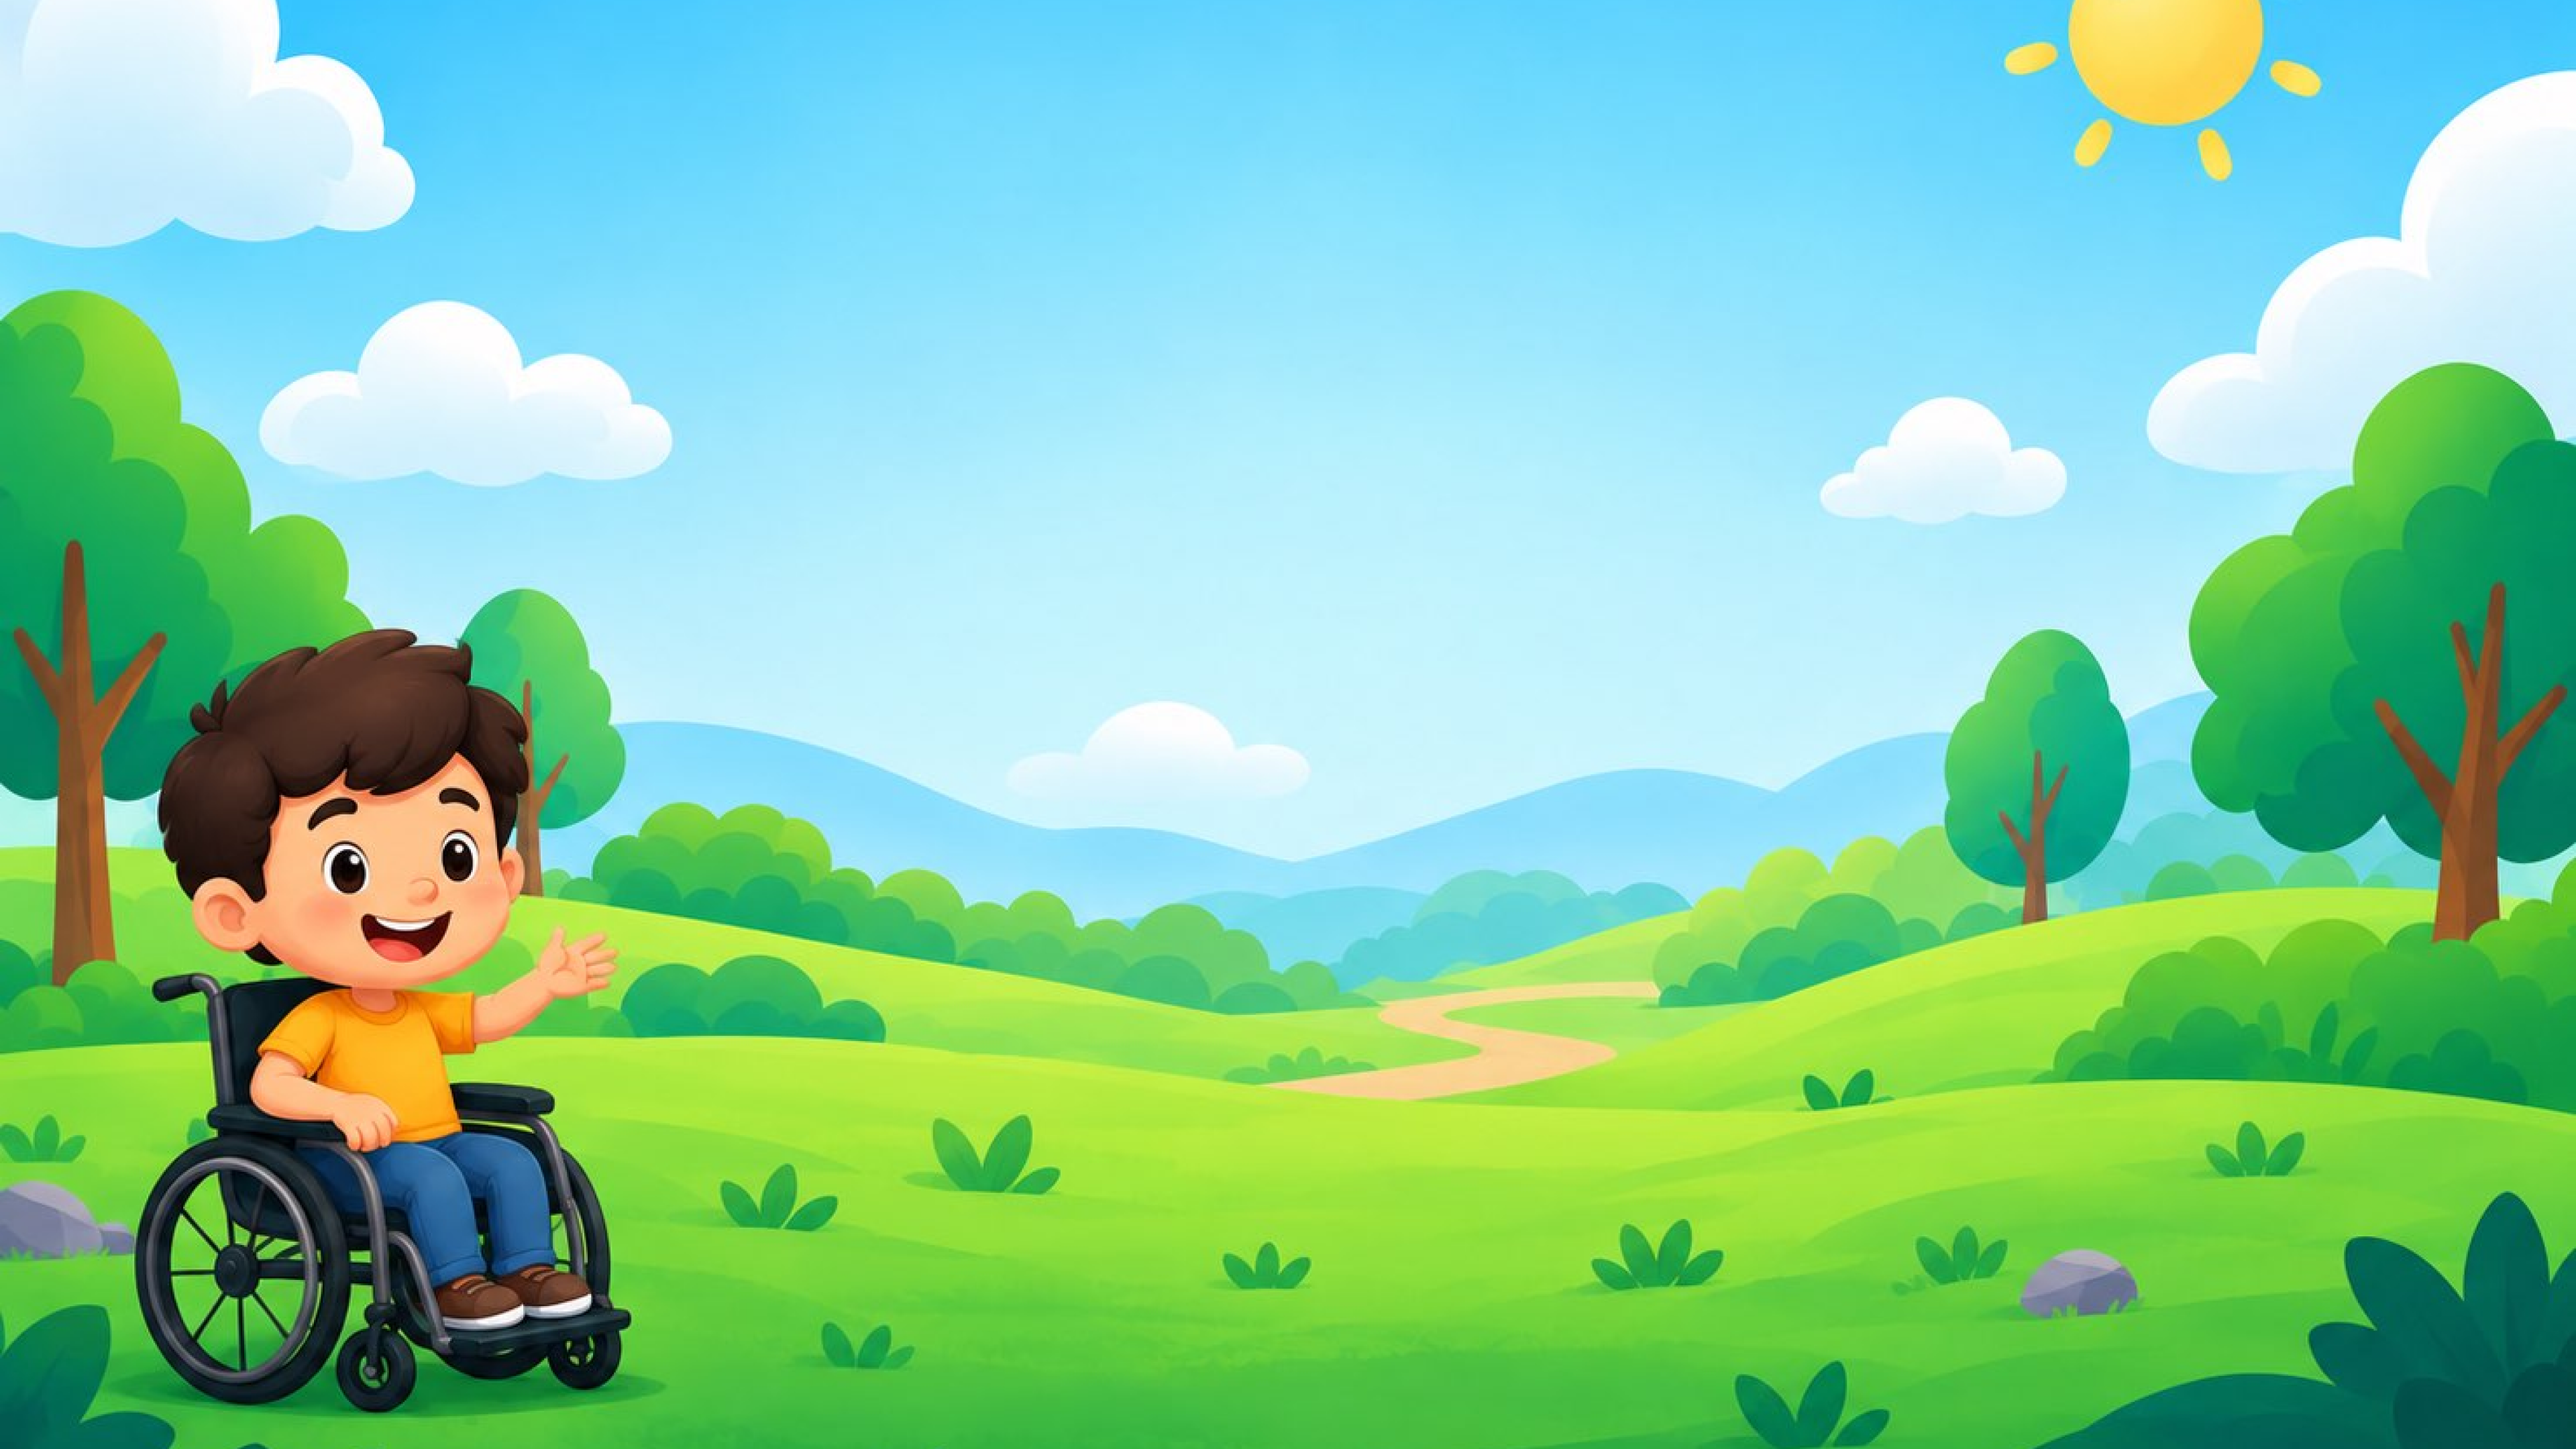
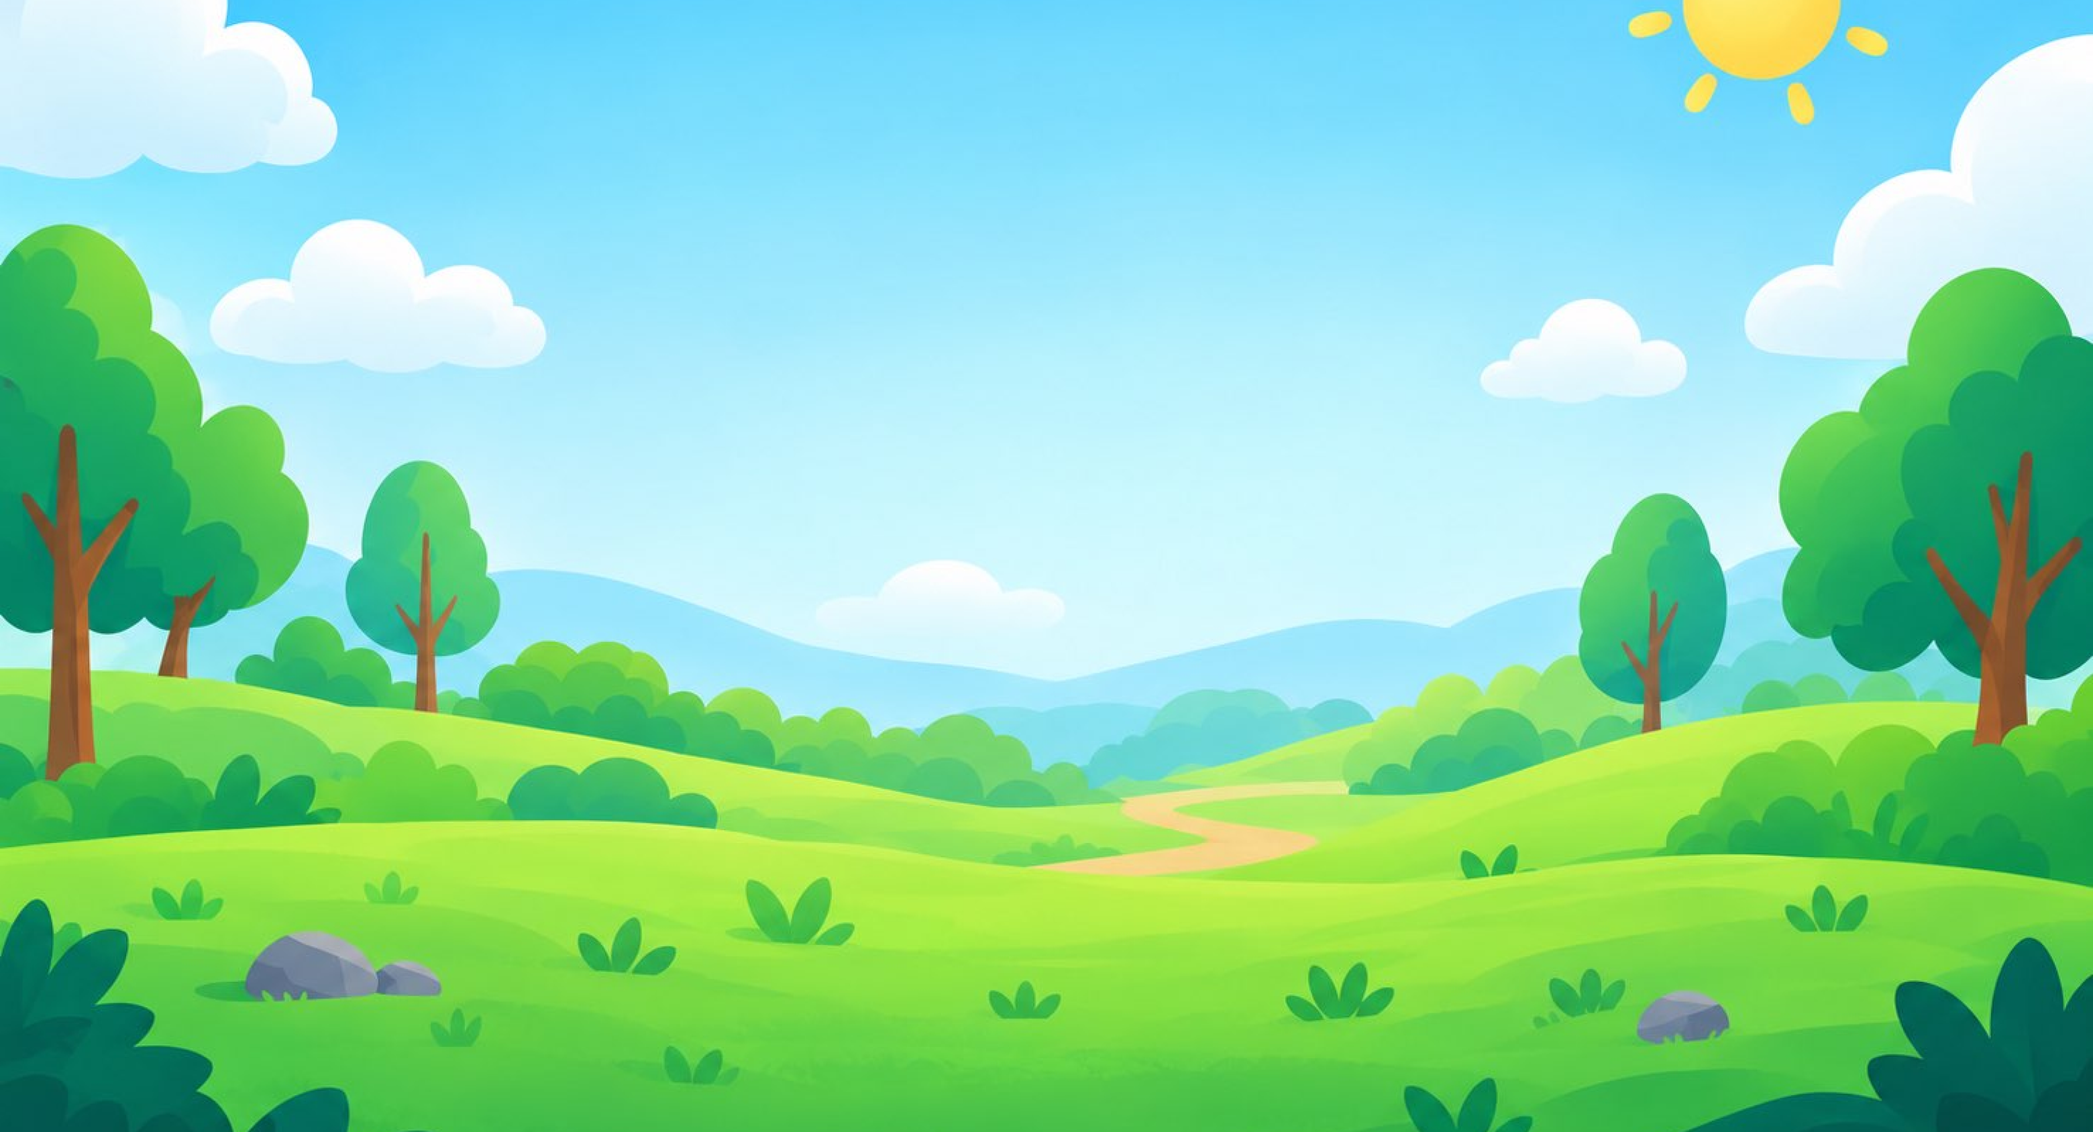
Interface Recriada em Mobile Firs

diff --git a/aprender-front/src/components/UI/Jogar/menu/Menu.css b/aprender-front/src/components/UI/Jogar/menu/Menu.css
@@ -9,13 +9,12 @@ section#menu-jogar{
     background-size: cover;
 
     .nav-menu{
-        width: 100%;
-        height: 100%;
         display: flex;
         flex-direction: column;
         align-items: center;
         justify-content: center;
         gap: 31px;
+        padding-top: 100px;
         
         .header{
             display: flex;
@@ -24,21 +23,14 @@ section#menu-jogar{
             justify-content: center;
             gap: 21px;
 
-            h1{
-                text-align: center;
-                font-size: 101px;
-                font-width: 700;
-                color: #14086E;
-
-                span{
-                    color: #055884;
-                }
+            img{
+                width: 40vh;
             }
 
-            h2{
+            h1{
                 text-align: center;
                 font-weight: 400;
-                font-size: 36px;
+                font-size: 15px;
                 max-width: 580px;
             }
         }
@@ -47,21 +39,35 @@ section#menu-jogar{
             display: flex;
             align-items: center;
             justify-content: center;
-            gap: 20px;
-            width: 385px;
-            height: 78px;
+            gap: 30px;
             border: none;
             border-radius: 20px;
             background-color: #07FD7A;
+            padding: 2px 30px;
 
             h1{
                 color: #FFFFFF;
                 font-weight: 700;
+                font-size: 20px;
+            }
+
+            .icon{
+                display: flex;
+                width: 35px;
             }
         }
 
         button.jogar:hover{
             cursor: pointer;
+        }
+    }
+
+    .avatar{
+        position: fixed;
+        bottom: 0px;
+        left: 0px;
+        img{
+            width: 35vh;
         }
     }
 }

diff --git a/aprender-front/src/components/UI/Jogar/menu/Menu.jsx b/aprender-front/src/components/UI/Jogar/menu/Menu.jsx
@@ -2,13 +2,17 @@
 import './Menu.css';
 import 'animate.css';
 
+// Assets
+import Aprender from '../../../../assets/images/aprender.png'
+import Avatar from '../../../../assets/images/Jogar/menu/Avatar.png'
+
 export default function Menu({changeScreen}) {
     return (
         <section id='menu-jogar'>
             <div className="nav-menu">
                 <div className="header animate__animated animate__bounceInDown">    
-                    <h1>Aprender<br />é <span>para todos</span></h1>
-                    <h2>Um jogo educativo e inclusivo para estimular o aprendizado de forma divertida</h2>
+                    <img src={Aprender} alt="Aprender Logo" />
+                    <h1>Um jogo educativo e inclusivo para estimular o aprendizado de forma divertida</h1>
                 </div>
                 <button className='jogar animate__animated animate__bounceIn'>
                     <div className="icon">
@@ -18,6 +22,10 @@ export default function Menu({changeScreen}) {
                     </div>
                     <h1>Jogar</h1>
                 </button>
+            </div>
+
+            <div className="avatar">
+                <img src={Avatar} alt="Avatar" />
             </div>
         </section>
     )

diff --git a/aprender-front/src/pages/Jogar/Jogar.jsx b/aprender-front/src/pages/Jogar/Jogar.jsx
@@ -14,9 +14,8 @@ export default function Jogar() {
     const [page, setPage] = useState('menu');
 
     return (
-        <section id="Jogar">
-            <img id="logo" src={CyberScripts} alt="cyberscripts.com.br" />
-            
+        <section id="Jogar">           
+        
             <Menu changeScreen={(screen) => {setPage(screen)}} />
 
         </section>

diff --git a/aprender-front/vite.config.js b/aprender-front/vite.config.js
@@ -4,4 +4,8 @@ import { defineConfig } from 'vite'
 // https://vite.dev/config/
 export default defineConfig({
   plugins: [react()],
+  server :{
+    host: true,
+    port: 5173
+  }
 })
